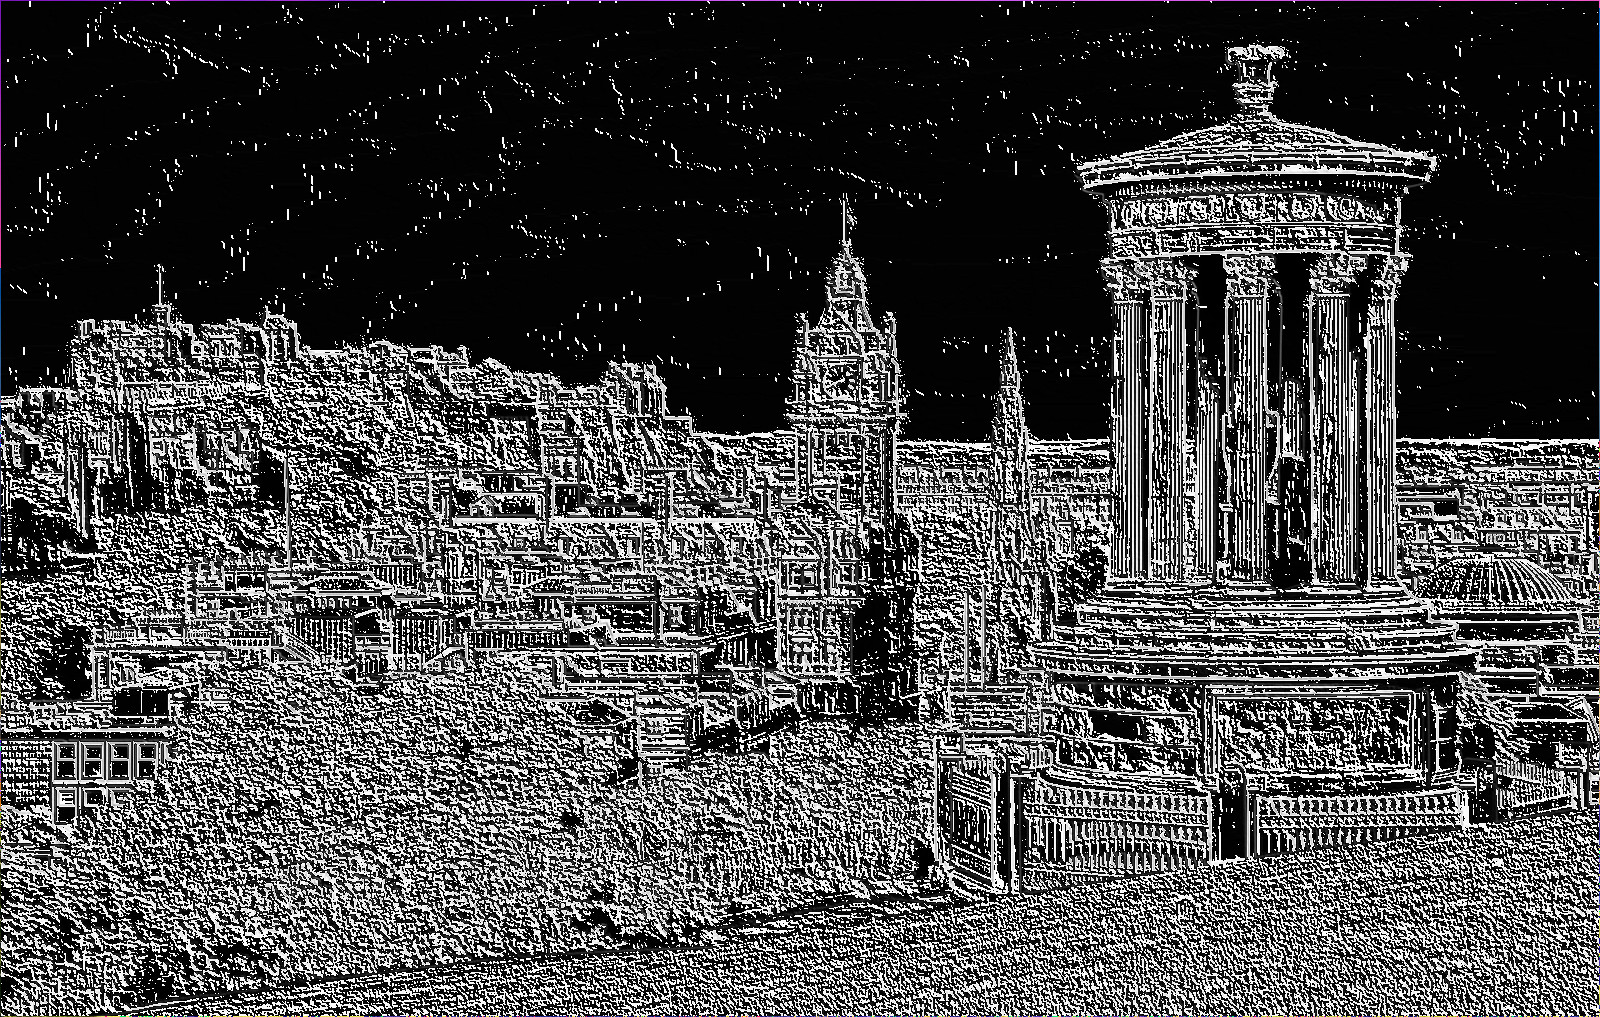
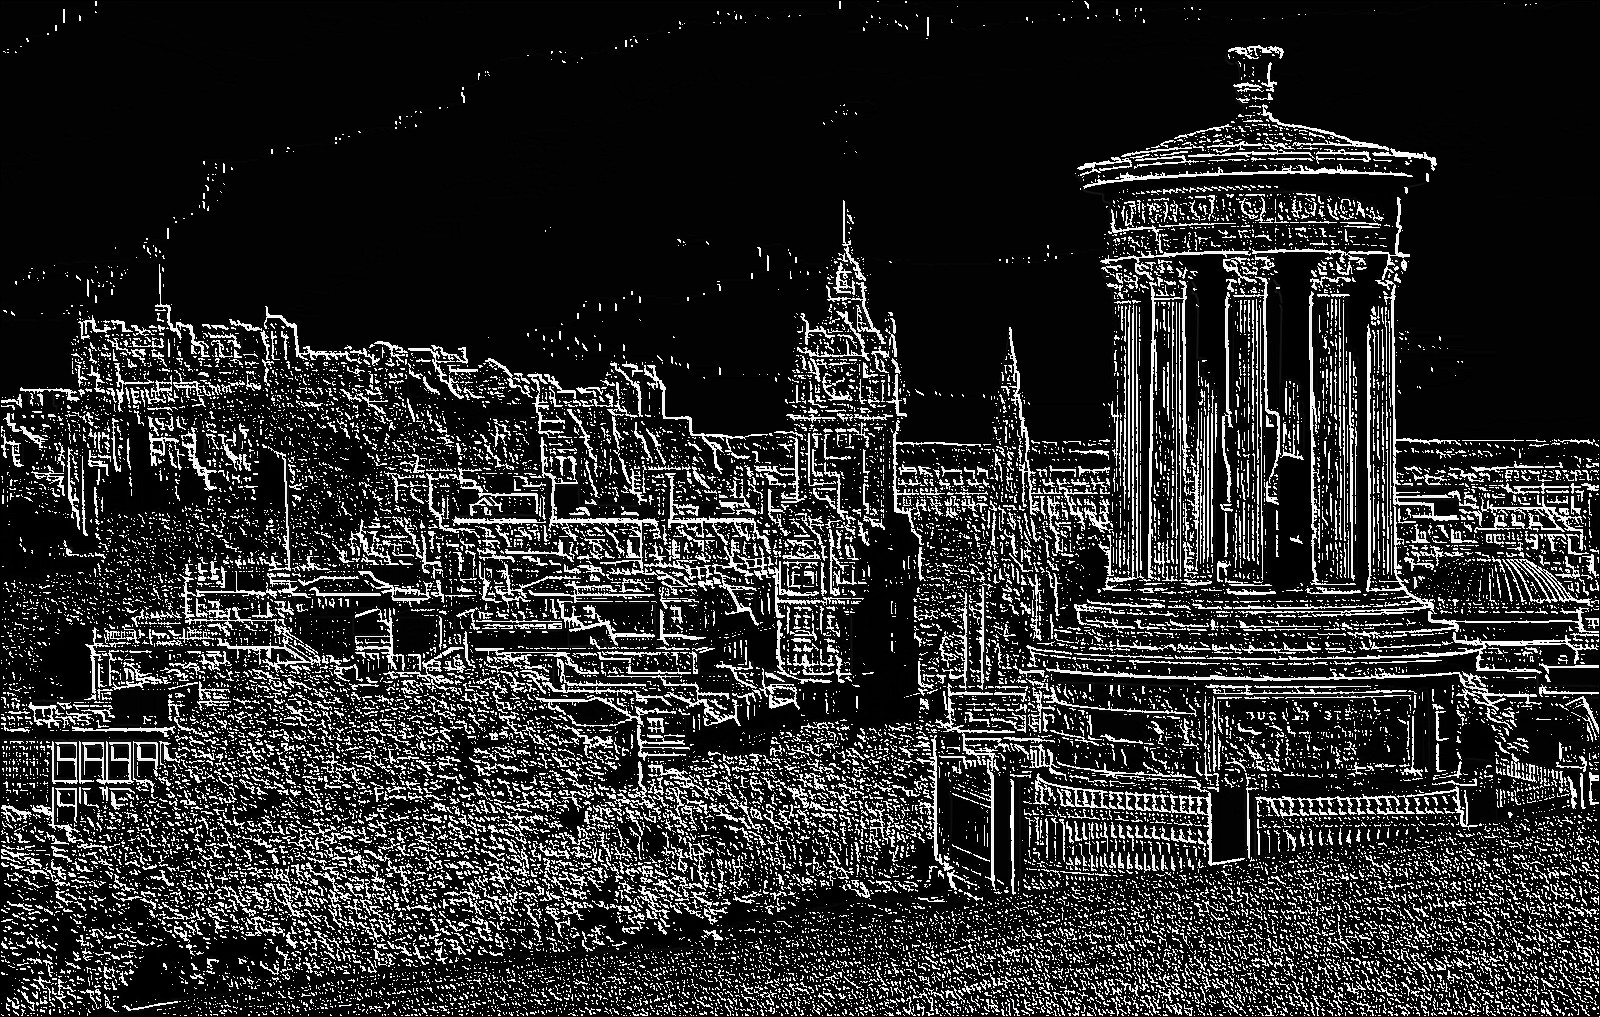
Made brightness support for gradient adding. Made border deletion.

Changed region(s): [[0.0, 0.0305, 1.0, 1.0]]

diff --git a/src/utils.c b/src/utils.c
@@ -23,15 +23,10 @@ void convolution(GimpPixelRgn* rgin, Buff* buff_out, int channels, int matr[3][3
 				{
 					for(int m_j=0; m_j<3; m_j++)
 					{
-						int r = buff_get_pixel_channel(buff_in, i+(m_i-1), j+(m_j-1), 0);
-						int g = buff_get_pixel_channel(buff_in, i+(m_i-1), j+(m_j-1), 1);
-						int b = buff_get_pixel_channel(buff_in, i+(m_i-1), j+(m_j-1), 2);
-						output += multiplier * matr[m_i][m_j]*brightness(r, g, b);
+						output += multiplier * matr[m_i][m_j]*buff_get_pixel_brightness(buff_in, i+(m_i-1), j+(m_j-1), brightness);
 					}
 				}
-				buff_set_pixel_channel(buff_out, i, j, 0, output);
-				buff_set_pixel_channel(buff_out, i, j, 1, output);
-				buff_set_pixel_channel(buff_out, i, j, 2, output);
+				buff_set_pixel(buff_out, i, j, output, output, output);
 			}
 			else
 			{
@@ -68,16 +63,49 @@ void gradient_add(Buff* buff1, Buff* buff2, GimpPixelRgn* rgout,  int channels, 
 	{
 		for(int j=0; j<w; j++)
 		{
-			for(int k=0; k<channels; k++)
+			if(brightness)
 			{
-				guchar gr1 = buff_get_pixel_channel(buff1, i, j, k);
-				guchar gr2 = buff_get_pixel_channel(buff2, i, j, k);
-				buff_set_pixel_channel(buff_out, i, j, k, gradient(gr1, gr2));
+				float br1 = buff_get_pixel_brightness(buff1, i, j, brightness);
+				float br2 = buff_get_pixel_brightness(buff2, i, j, brightness);
+
+				float gr=gradient(br1, br2);
+				buff_set_pixel(buff_out, i, j, gr, gr, gr);
+			}
+			else
+			{
+				for(int k=0; k<channels; k++)
+				{
+					guchar gr1 = buff_get_pixel_channel(buff1, i, j, k);
+					guchar gr2 = buff_get_pixel_channel(buff2, i, j, k);
+					buff_set_pixel_channel(buff_out, i, j, k, gradient(gr1, gr2));
+				}
 			}
 		}
 	}
 	gimp_pixel_rgn_set_rect(rgout, buff_out->buff, rgout->x, rgout->y, rgout->w, rgout->h);
 	buff_free(buff_out);
+}
+
+void delete_border(GimpPixelRgn* rgout, int channels)
+{
+	Buff* buff = buff_init(rgout, channels);
+
+	int w=buff->w;
+	int h=buff->h;
+	for(int j=0; j<w-1; j++)
+	{
+		//printf("\nj: %d / %d\n", j, w);
+		buff_set_pixel(buff, 0, j, 0, 0, 0);
+		buff_set_pixel(buff, h-1, j, 0, 0, 0);
+	}
+
+	for(int i=0; i<h-1; i++)
+	{
+		buff_set_pixel(buff, i, 0, 0, 0, 0);
+		buff_set_pixel(buff, i, w-1, 0, 0, 0);
+	}
+	gimp_pixel_rgn_set_rect(rgout, buff->buff, rgout->x, rgout->y, rgout->w, rgout->h);
+	buff_free(buff);
 }
 
 void sobel(GimpDrawable* dr, int gr1[3][3], int gr2[3][3])
@@ -93,9 +121,11 @@ void sobel(GimpDrawable* dr, int gr1[3][3], int gr2[3][3])
 	Buff* buff_out1 = buff_init(&rgin, channels);
 	Buff* buff_out2 = buff_init(&rgin, channels);
 	
-	convolution(&rgin, buff_out1, channels, gr1, 0.11, &brightness_humanized);
-	convolution(&rgin, buff_out2, channels, gr2, 0.11, &brightness_humanized);
+	convolution(&rgin, buff_out1, channels, gr1, 0.03, &brightness_humanized);
+	convolution(&rgin, buff_out2, channels, gr2, 0.03, &brightness_humanized);
 	gradient_add(buff_out1, buff_out2, &rgout, channels, &brightness_humanized, &gradient_abs);
+	printf("\ndeleting border\n");
+	delete_border(&rgout, channels);
 	
 	buff_free(buff_out1);
 	buff_free(buff_out2);

diff --git a/src/buff.c b/src/buff.c
@@ -1,5 +1,5 @@
 #include "buff.h"
-
+#include "metrics.h"
 
 Buff* buff_init(GimpPixelRgn* rgn, int channels)
 {
@@ -22,6 +22,21 @@ guchar buff_get_pixel_channel(Buff* buff, int i, int j, int c)
 void buff_set_pixel_channel(Buff* buff, int i, int j, int c, int new_c)
 {
 	buff->buff[(i*buff->w+j)*buff->c + c] = new_c;
+}
+
+void buff_set_pixel(Buff* buff, int i, int j, int r, int g, int b)
+{
+	buff_set_pixel_channel(buff, i, j, 0, r);
+	buff_set_pixel_channel(buff, i, j, 1, g);
+	buff_set_pixel_channel(buff, i, j, 2, b);
+}
+
+float buff_get_pixel_brightness(Buff* buff, int i, int j, float (*brightness)(int, int, int))
+{
+	guchar r = buff_get_pixel_channel(buff, i, j, 0);
+	guchar g = buff_get_pixel_channel(buff, i, j, 1);
+	guchar b = buff_get_pixel_channel(buff, i, j, 2);
+	return brightness(r, g, b);
 }
 
 void buff_free(Buff* buff)

diff --git a/src/buff.h b/src/buff.h
@@ -15,4 +15,8 @@ guchar buff_get_pixel_channel(Buff* buff, int i, int j, int c); // i - row numbe
 
 void buff_set_pixel_channel(Buff* buff, int i, int j, int c, int new_c); // i - row number, j - column number
 
+void buff_set_pixel(Buff* buff, int i, int j, int r, int g, int b);
+
+float buff_get_pixel_brightness(Buff* buff, int i, int j, float (*brightness)(int, int, int));
+
 void buff_free(Buff* buff);

diff --git a/src/utils.h b/src/utils.h
@@ -8,3 +8,4 @@ void convolution(GimpPixelRgn* rgin, Buff* buff_out, int channels, int matr[3][3
 
 void gradient_add(Buff* buff1, Buff* buff2, GimpPixelRgn* rgout,  int channels, float (*brightness)(int, int, int), float (*gradient)(int, int));
 
+void delete_border(GimpPixelRgn* rgout, int channels);

diff --git a/src/config.h b/src/config.h
@@ -37,3 +37,10 @@ query (void)
 	gimp_plugin_menu_register ("plug-in-sobel", "<Image>/Filters/MyFilters"); 
 }
 
+typedef struct
+{
+	float multiplier;
+	int gr1[3][3];
+	int gr2[3][3];
+	short brightness;
+}SobelParams;
